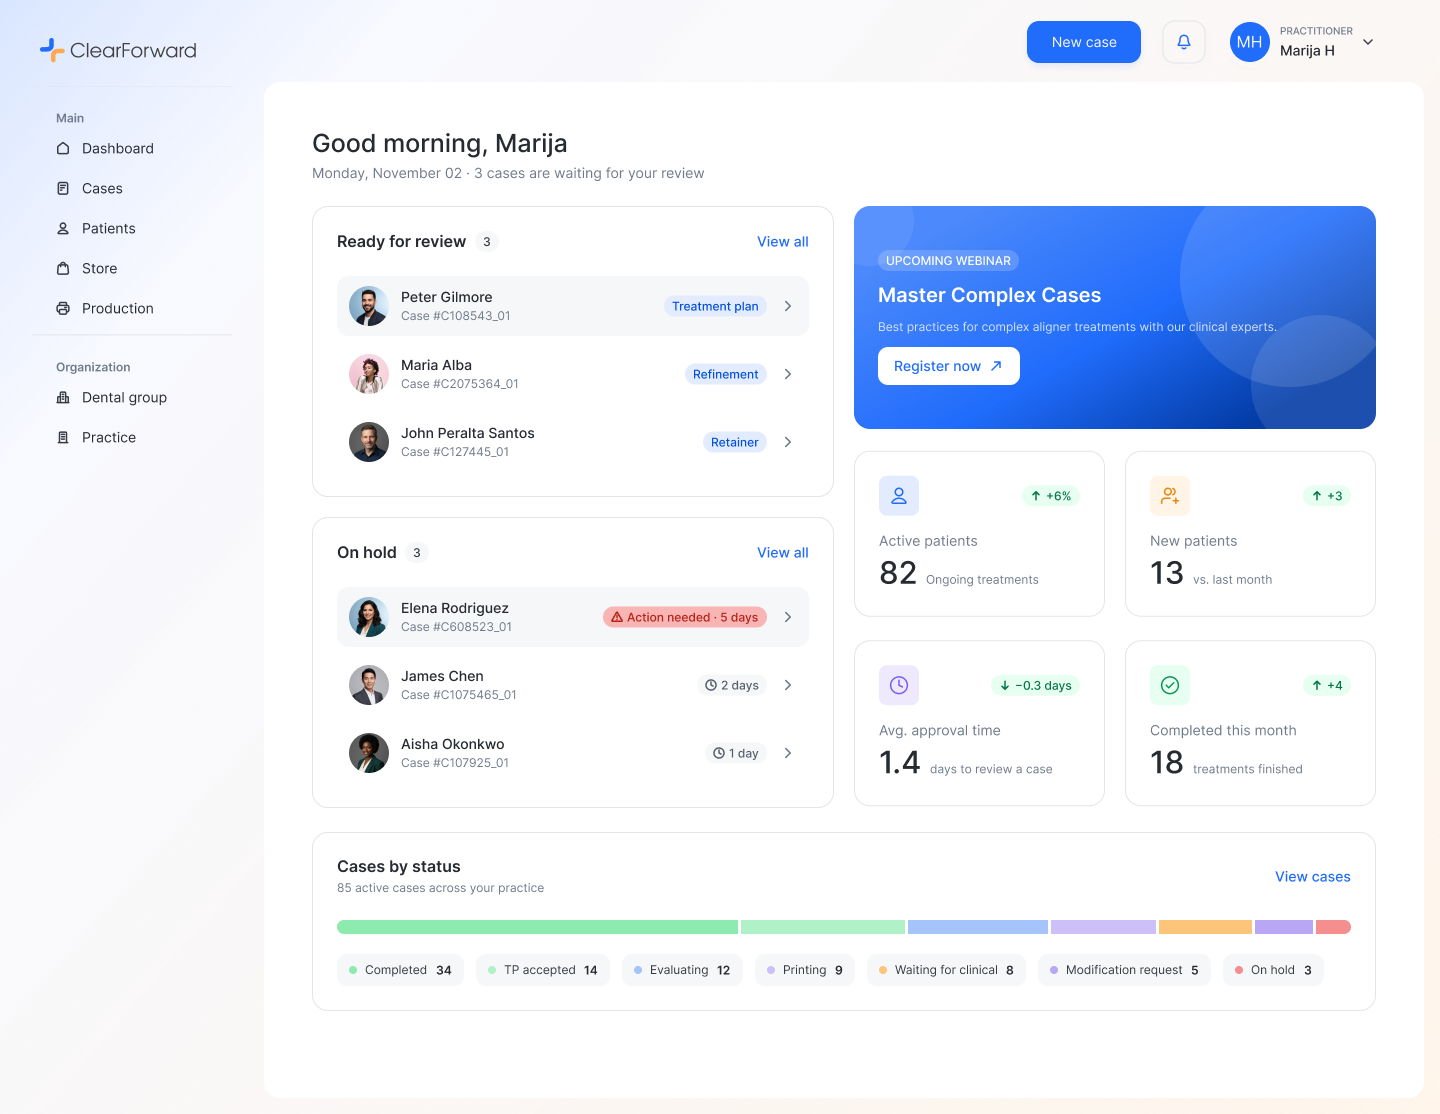
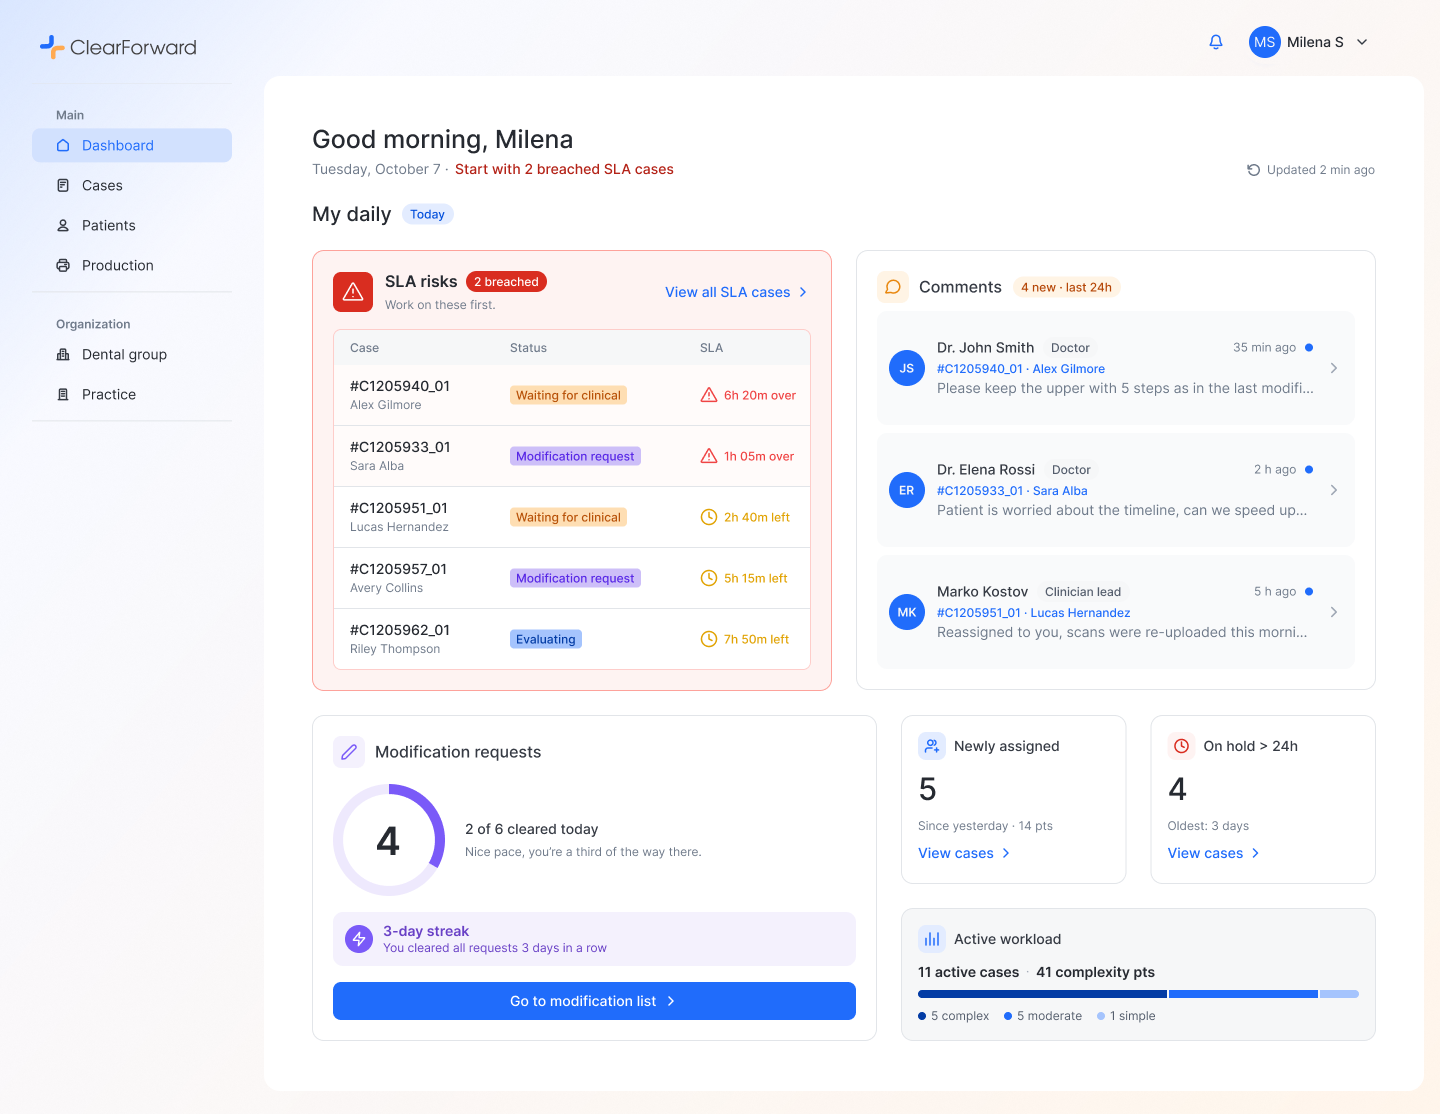
Swap ClearForward hero to clinician dashboard and rewrite its description

diff --git a/src/data/projects.js b/src/data/projects.js
@@ -186,7 +186,7 @@ export const projects = {
           title: 'Information Architecture',
           paragraphs: [
             'I reorganised the navigation into three clear groups. Main holds everyday work: Dashboard, Cases, Patients, Store, and Production. Organization covers Dental groups and Practices. Management gathers the admin tools (Users and Roles, Tiers, Vouchers, Referrals, Templates, Products, and Printers), with Reports and Settings always available at the bottom.',
-            'The dashboard, shown at the top of this page, greets practitioners by name and puts their work first. The cases waiting for their review sit in the top-left corner, where the eye lands first, followed by cases on hold with how long they have been waiting and which need action. Alongside them, four stat cards track active and new patients, average approval time, and treatments completed this month, while a status bar at the bottom shows how all active cases are distributed. A compact webinar card in the brand blue highlights upcoming education without competing with the clinical work.',
+            'The clinician dashboard, shown at the top of this page, is built around a clinician's day. A My daily view greets them by name and tells them where to start, such as two cases that have already breached their SLA. Those SLA risks sit in the top-left corner, where the eye lands first, in a red-tinted card that lists each case with its status and how much time is left or how far over it is. Next to it, recent comments from doctors and clinician leads are linked straight to their cases, so nothing gets lost between messages. Below, a progress ring tracks the modification requests cleared today, with a small streak to keep the work motivating, while compact cards show newly assigned cases, cases on hold for more than 24 hours, and the clinician's active workload split by complexity.',
           ],
         },
         {
